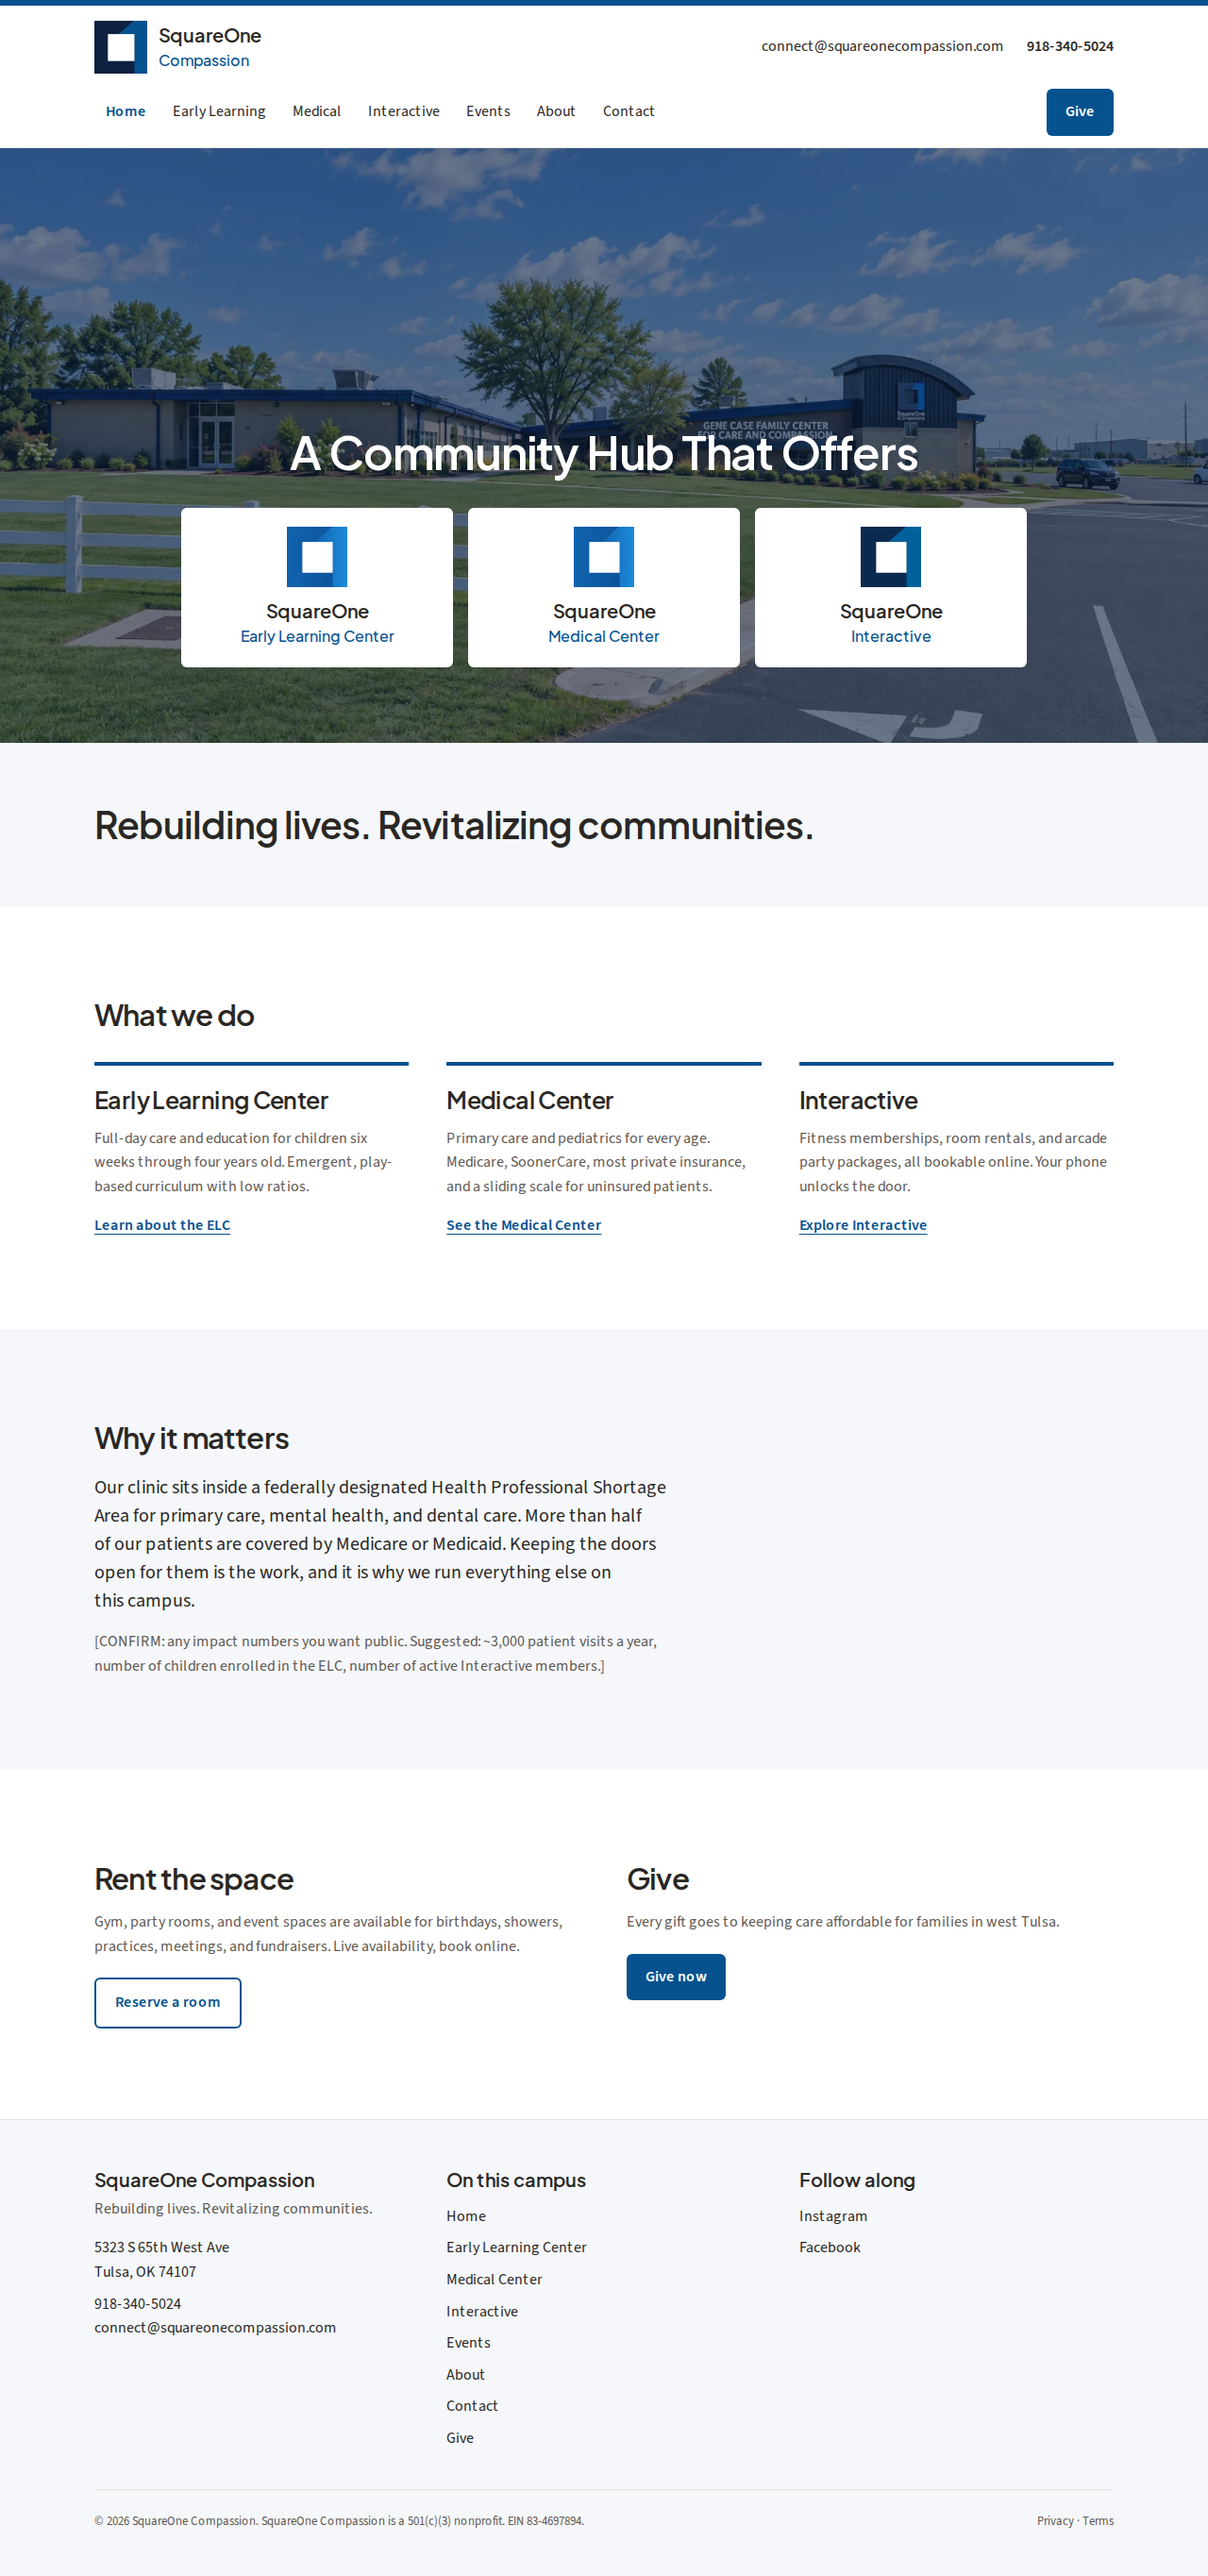
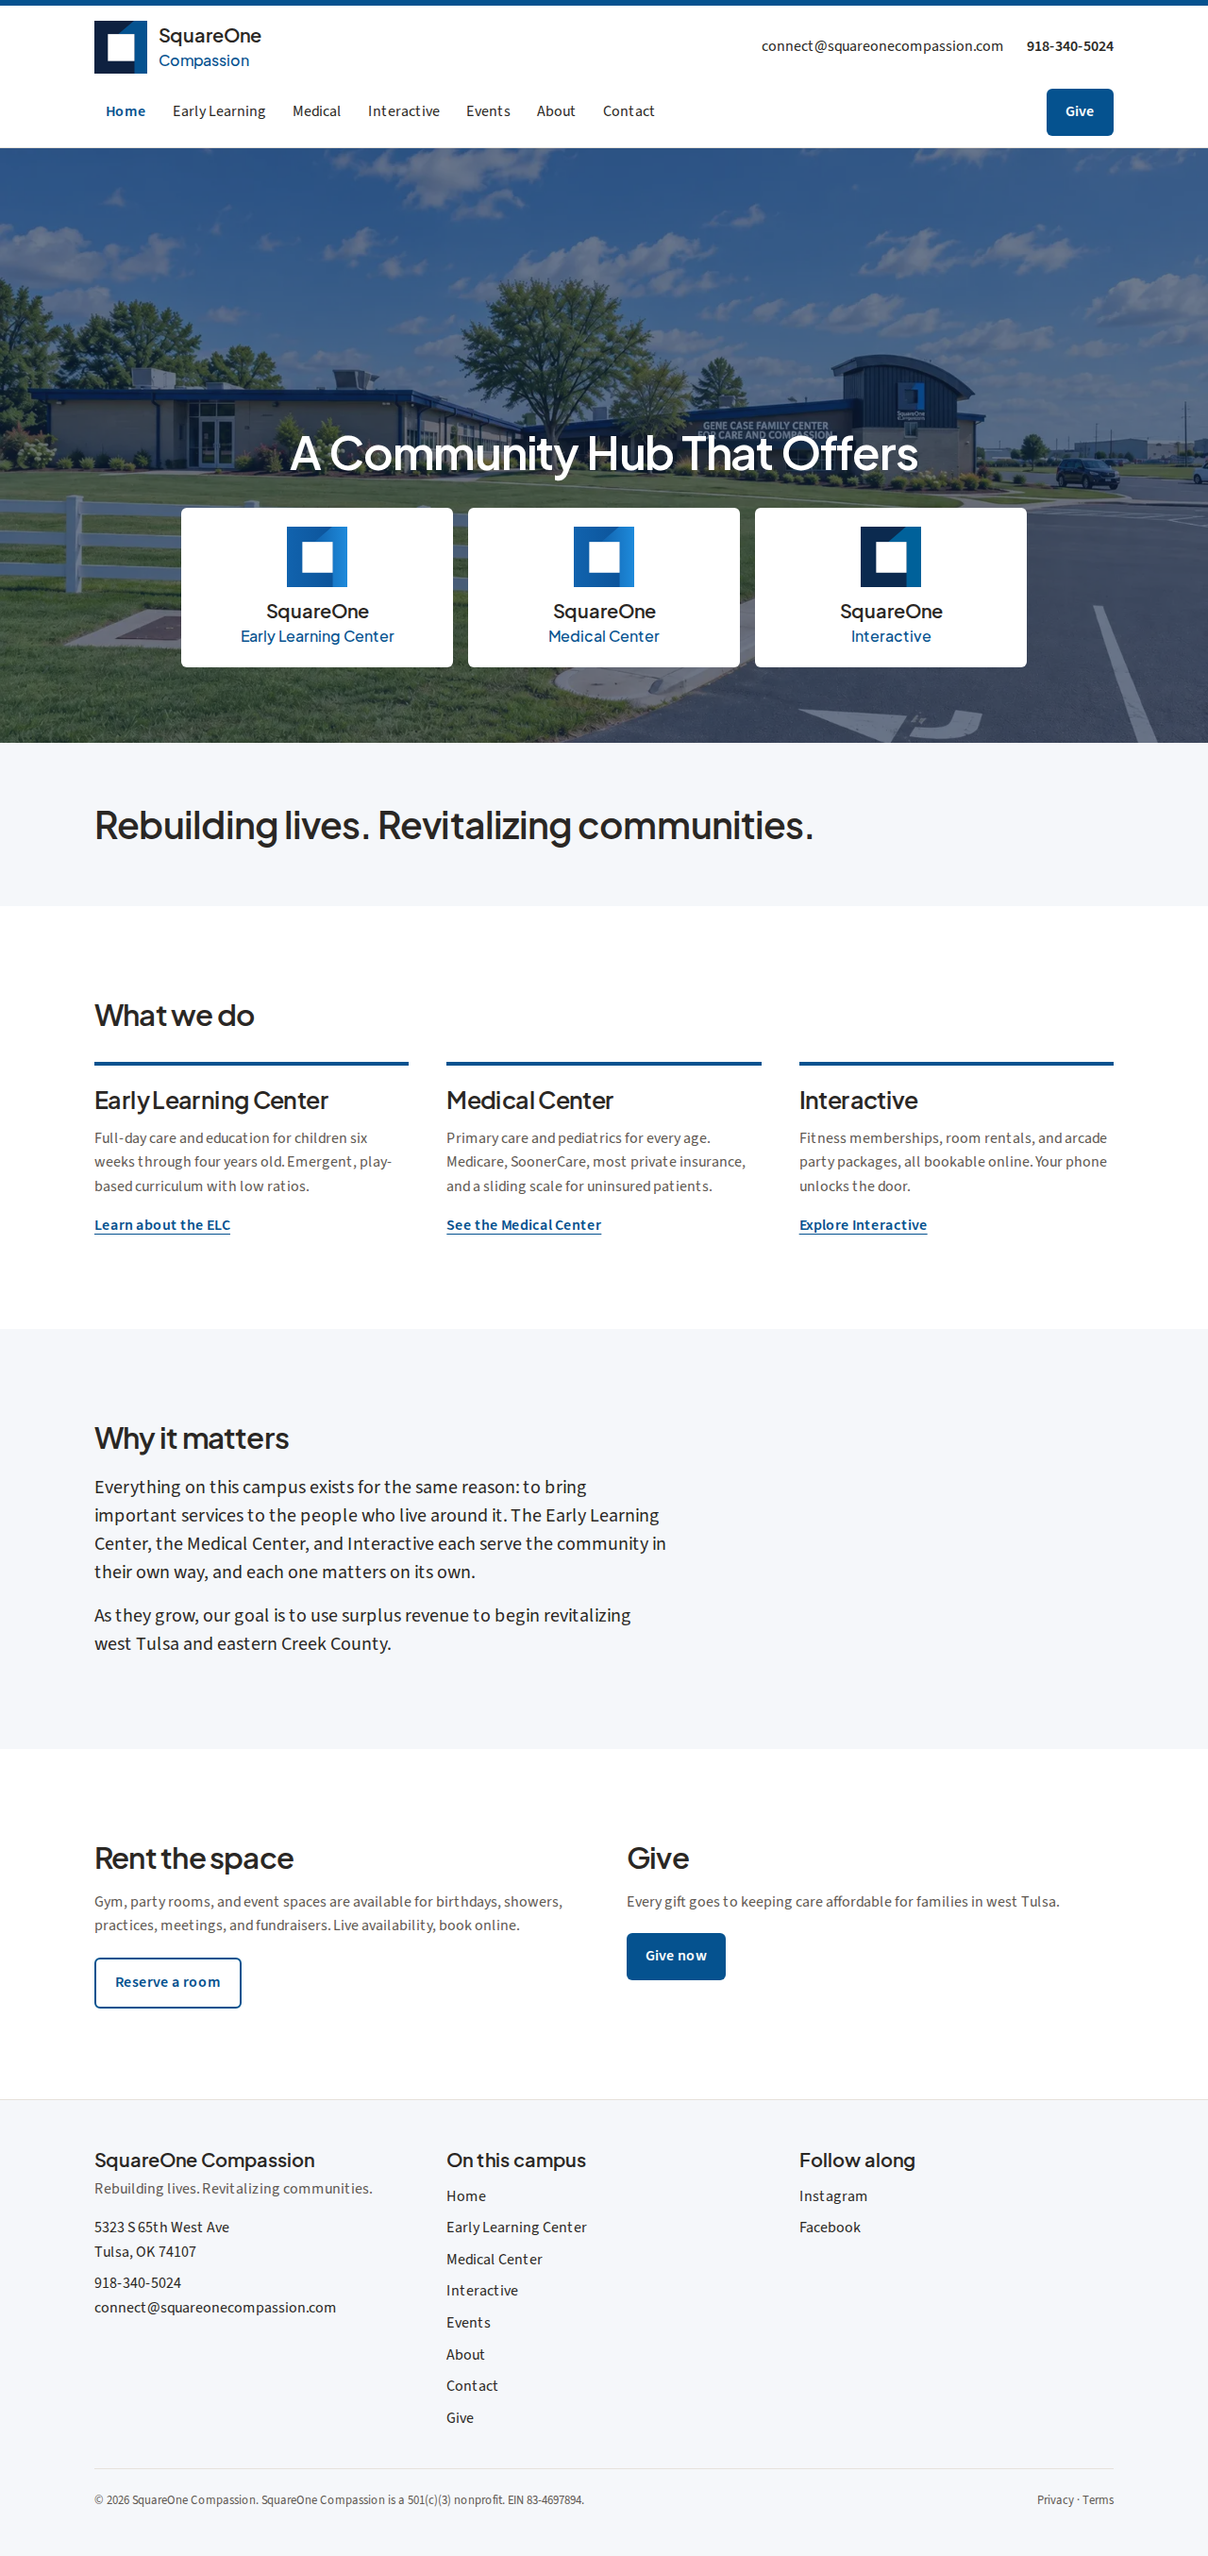
Rewrite "Why it matters" around the whole-campus mission
Per Matt: no Medical Center statistics on the landing page, and the three
divisions are peers that each bring services to the surrounding area.
Adds the goal of using surplus revenue to revitalize west Tulsa and
eastern Creek County. Impact-numbers placeholder removed.

Claude-Session: https://claude.ai/code/session_01Dy1NBE1CDjARVuM4emY1ru

diff --git a/app/page.tsx b/app/page.tsx
@@ -2,7 +2,6 @@ import Link from 'next/link'
 import { Hero } from '@/components/Hero'
 import { Section } from '@/components/Section'
 import { DivisionCard } from '@/components/DivisionCard'
-import { Confirm } from '@/components/Confirm'
 import { appUrl, ORG } from '@/lib/site'
 
 export default function HomePage() {
@@ -44,11 +43,9 @@ export default function HomePage() {
         <h2 className="text-2xl">Why it matters</h2>
         <div className="prose-block mt-5 space-y-4 text-lg">
           <p>
-            Our clinic sits inside a federally designated Health Professional Shortage Area for primary care, mental health, and dental care. More than half of our patients are covered by Medicare or Medicaid. Keeping the doors open for them is the work, and it is why we run everything else on this campus.
+            Everything on this campus exists for the same reason: to bring important services to the people who live around it. The Early Learning Center, the Medical Center, and Interactive each serve the community in their own way, and each one matters on its own.
           </p>
-          <p className="text-base">
-            <Confirm>any impact numbers you want public. Suggested: ~3,000 patient visits a year, number of children enrolled in the ELC, number of active Interactive members.</Confirm>
-          </p>
+          <p>As they grow, our goal is to use surplus revenue to begin revitalizing west Tulsa and eastern Creek County.</p>
         </div>
       </Section>
 

diff --git a/content/COPY.md b/content/COPY.md
@@ -48,9 +48,11 @@ Link: Explore Interactive
 
 **Section: Why it matters**
 
-Our clinic sits inside a federally designated Health Professional Shortage Area for primary care, mental health, and dental care. More than half of our patients are covered by Medicare or Medicaid. Keeping the doors open for them is the work, and it is why we run everything else on this campus.
+Everything on this campus exists for the same reason: to bring important services to the people who live around it. The Early Learning Center, the Medical Center, and Interactive each serve the community in their own way, and each one matters on its own.
 
-`[CONFIRM: any impact numbers you want public. Suggested: ~3,000 patient visits a year, number of children enrolled in the ELC, number of active Interactive members.]`
+As they grow, our goal is to use surplus revenue to begin revitalizing west Tulsa and eastern Creek County.
+
+(Per Matt: no Medical Center statistics on the landing page. The three divisions are peers; none exists to keep another open.)
 
 **Section: Rent the space**
 Gym, party rooms, and event spaces are available for birthdays, showers, practices, meetings, and fundraisers. Live availability, book online.

diff --git a/CONFIRM.md b/CONFIRM.md
@@ -43,7 +43,7 @@ See `.env.example`. Without these:
 - [x] Interactive direct line: 918-706-2682
 
 ### Home
-- [ ] Impact numbers to publish (suggested: ~3,000 patient visits a year, children enrolled in the ELC, active Interactive members)
+- [x] No statistics on the landing page; "Why it matters" rewritten around the whole-campus mission
 
 ### About
 - [ ] Year founded
